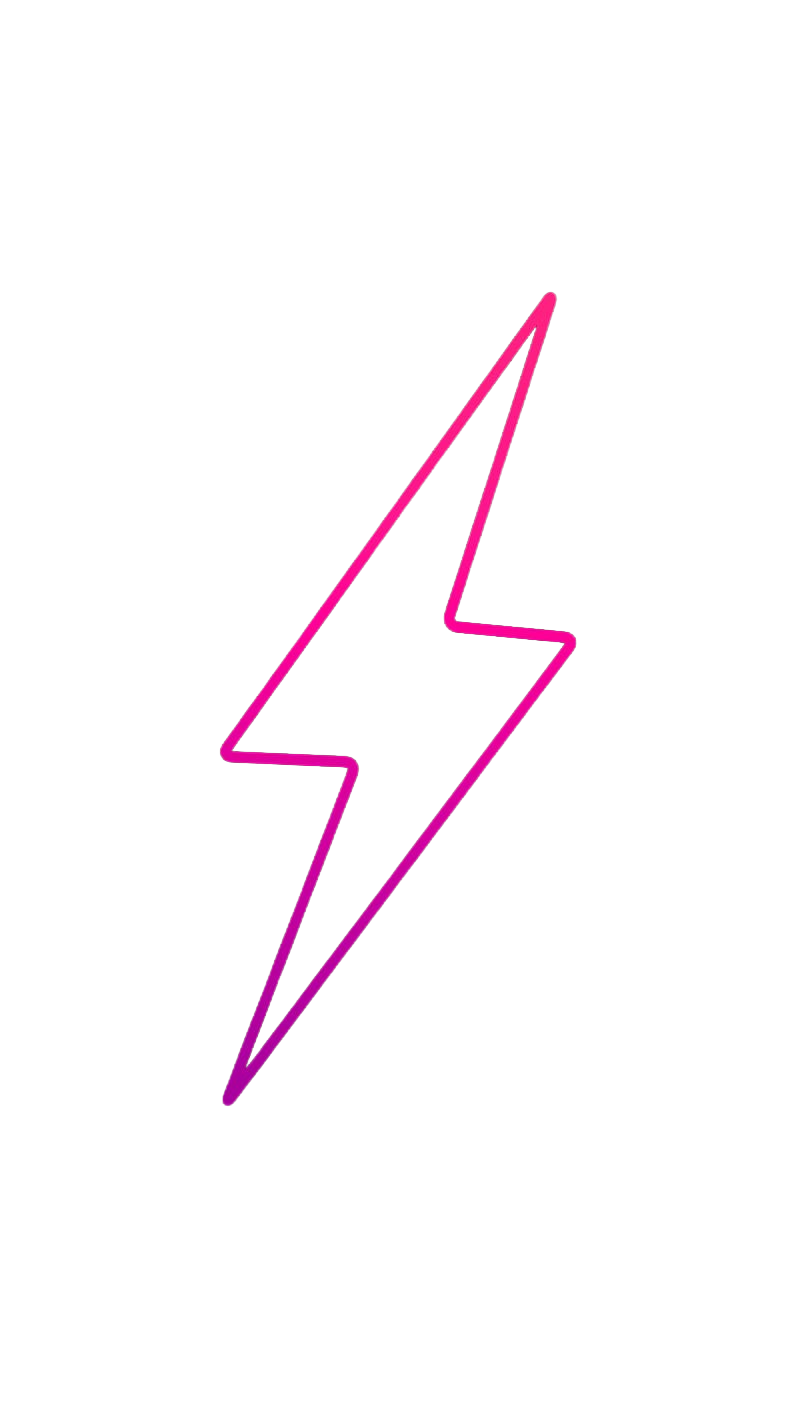
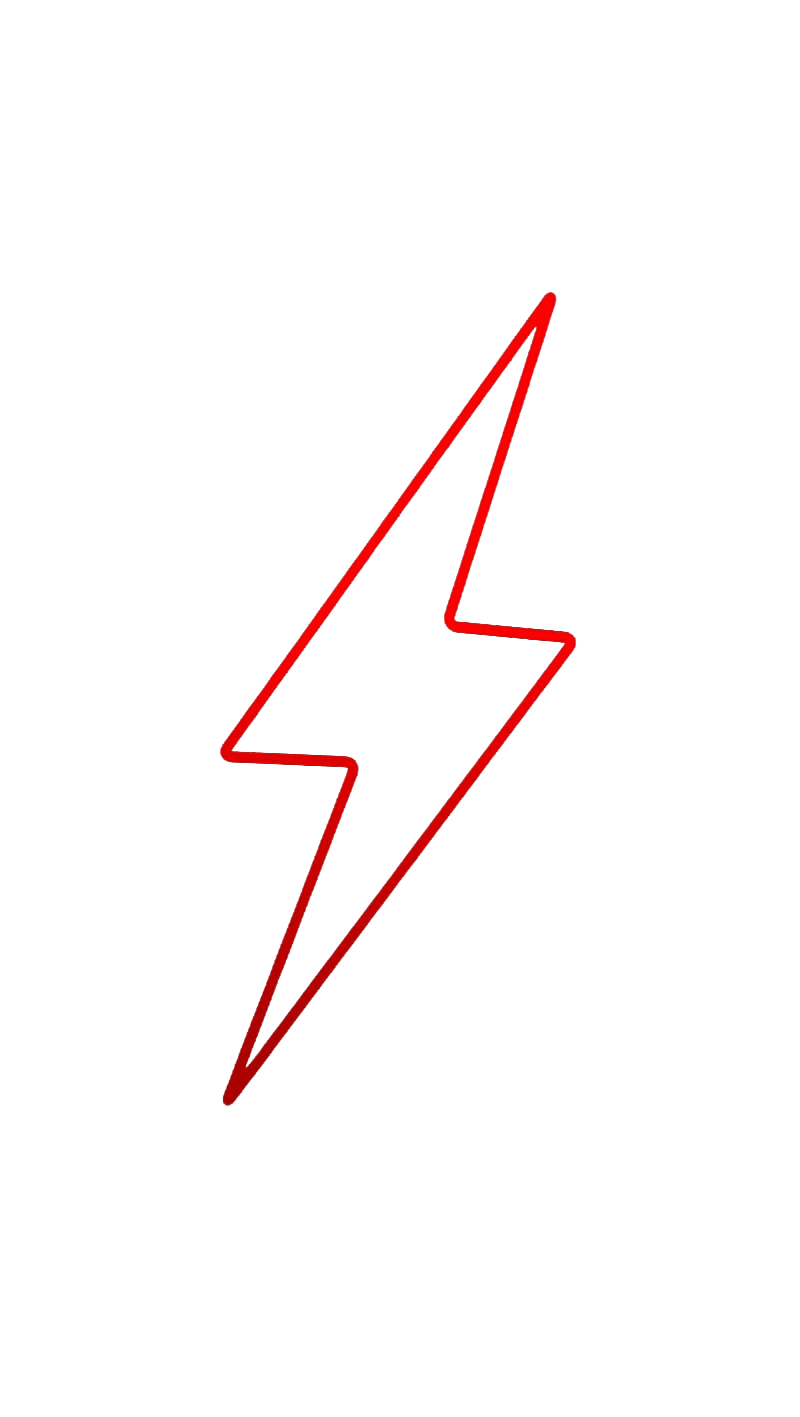
added authentication

diff --git a/src/pages/index.tsx b/src/pages/index.tsx
@@ -6,13 +6,14 @@ import Python from '@assets/python-logo.png';
 import Ffmpeg from '@assets/ffmpeg.png';
 import { RiVideoUploadLine } from 'react-icons/ri';
 import { BsCodeSlash } from 'react-icons/bs';
+import Link from 'next/link';
 
 const IndexPage: NextPage = () => {
   return (
     <div className="w-full p-14 pt-16 relative">
       <Head>
         <title>Home</title>
-        <link rel="icon" href="/favicon.ico" />
+        <link rel="icon" href="/thunder-hero.png" />
       </Head>
       {/* Hero section */}
 
@@ -41,32 +42,36 @@ const IndexPage: NextPage = () => {
           WASM Apps
         </h2>
         <div className="mt-16 flex gap-20 flex-wrap items-center justify-center lg:justify-start">
-          <div className="flex flex-col justify-center items-center hover:bg-gray-700 rounded-xl p-5 cursor-pointer">
-            <div className="relative h-32 w-32">
-              <Image
-                src={Python}
-                layout="fill"
-                className="h-full w-full object-contain"
-              />
+          <Link href="/editor">
+            <div className="flex flex-col justify-center items-center hover:bg-gray-800 rounded-xl p-5 cursor-pointer">
+              <div className="relative h-32 w-32">
+                <Image
+                  src={Python}
+                  layout="fill"
+                  className="h-full w-full object-contain"
+                />
+              </div>
+              <div className="flex items-center gap-4 mt-5">
+                <BsCodeSlash className="text-3xl" />
+                <p>Python Code Editor</p>
+              </div>
             </div>
-            <div className="flex items-center gap-4 mt-5">
-              <BsCodeSlash className="text-3xl" />
-              <p>Python Code Editor</p>
+          </Link>
+          <Link href="/ffmpeg">
+            <div className="flex flex-col justify-center items-center hover:bg-gray-800 rounded-xl p-5 cursor-pointer">
+              <div className="relative h-32 w-32">
+                <Image
+                  src={Ffmpeg}
+                  layout="fill"
+                  className="h-full w-full object-contain"
+                />
+              </div>
+              <div className="flex items-center gap-4 mt-5">
+                <RiVideoUploadLine className="text-3xl" />
+                <p>Codec Formatter</p>
+              </div>
             </div>
-          </div>
-          <div className="flex flex-col justify-center items-center hover:bg-gray-700 rounded-xl p-5 cursor-pointer">
-            <div className="relative h-32 w-32">
-              <Image
-                src={Ffmpeg}
-                layout="fill"
-                className="h-full w-full object-contain"
-              />
-            </div>
-            <div className="flex items-center gap-4 mt-5">
-              <RiVideoUploadLine className="text-3xl" />
-              <p>Codec Formatter</p>
-            </div>
-          </div>
+          </Link>
         </div>
       </section>
     </div>

diff --git a/src/components/Header/Header.tsx b/src/components/Header/Header.tsx
@@ -1,7 +1,18 @@
 import Link from 'next/link';
-import React from 'react';
+import { useSession, signIn, signOut } from 'next-auth/react';
+import Image from 'next/image';
 
 const Header = () => {
+  const { data: session } = useSession();
+
+  const handleLogin = () => {
+    signIn();
+  };
+
+  const handleLogout = () => {
+    signOut();
+  };
+
   return (
     <header className="w-full h-10 bg-header flex justify-between items-center py-8 px-4 md:px-10 lg:px-14 fixed top-0 left-0 z-[99999]">
       <Link href="/">
@@ -9,6 +20,25 @@ const Header = () => {
           AWASM
         </div>
       </Link>
+      {!session ? (
+        <button className="bg-button" onClick={handleLogin}>
+          Login
+        </button>
+      ) : (
+        <div className="flex items-center">
+          <div className="relative h-10 w-10 rounded-full overflow-hidden">
+            <Image
+              src={session.user?.image!}
+              layout="fill"
+              className="h-full w-full object-contain"
+            />
+          </div>
+          <p className="ml-2 text-sm">{session.user?.name}</p>
+          <button className="bg-button ml-4" onClick={handleLogout}>
+            Logout
+          </button>
+        </div>
+      )}
     </header>
   );
 };

diff --git a/src/pages/_app.tsx b/src/pages/_app.tsx
@@ -1,5 +1,6 @@
 import '../styles/globals.css';
 import { QueryClient, QueryClientProvider } from '@tanstack/react-query';
+import { SessionProvider } from 'next-auth/react';
 import { ReactQueryDevtools } from '@tanstack/react-query-devtools';
 import type { AppProps } from 'next/app';
 import { Provider } from 'react-redux';
@@ -10,16 +11,21 @@ import Layout from '@components/Layout';
 
 const queryClient = new QueryClient();
 
-export default function MyApp({ Component, pageProps }: AppProps) {
+export default function MyApp({
+  Component,
+  pageProps: { session, ...pageProps }
+}: AppProps) {
   return (
     <Provider store={store}>
       <QueryClientProvider client={queryClient}>
         <>
           {/* <PageLoading /> */}
           <NextProgress delay={300} options={{ showSpinner: false }} />
-          <Layout>
-            <Component {...pageProps} />
-          </Layout>
+          <SessionProvider session={session}>
+            <Layout>
+              <Component {...pageProps} />
+            </Layout>
+          </SessionProvider>
         </>
         <ReactQueryDevtools initialIsOpen={false} position="bottom-right" />
       </QueryClientProvider>

diff --git a/src/pages/editor.tsx b/src/pages/editor.tsx
@@ -1,0 +1,20 @@
+import { NextPage } from 'next';
+import { useSession } from 'next-auth/react';
+import Head from 'next/head';
+
+const Editor: NextPage = () => {
+  useSession({
+    required: true
+  });
+
+  return (
+    <div className="w-full min-h-screen p-14 pt-16">
+      <Head>
+        <title>Editor</title>
+        <link rel="icon" href="/thunder-hero.png" />
+      </Head>
+    </div>
+  );
+};
+
+export default Editor;

diff --git a/src/pages/ffmpeg.tsx b/src/pages/ffmpeg.tsx
@@ -1,0 +1,20 @@
+import { NextPage } from 'next';
+import { useSession } from 'next-auth/react';
+import Head from 'next/head';
+
+const Ffmpeg: NextPage = () => {
+  useSession({
+    required: true
+  });
+
+  return (
+    <div className="w-full min-h-screen p-14 pt-16">
+      <Head>
+        <title>Ffmpeg</title>
+        <link rel="icon" href="/thunder-hero.png" />
+      </Head>
+    </div>
+  );
+};
+
+export default Ffmpeg;

diff --git a/src/pages/api/auth/[...nextauth].ts b/src/pages/api/auth/[...nextauth].ts
@@ -1,0 +1,15 @@
+import NextAuth from 'next-auth';
+import GithubProvider from 'next-auth/providers/github';
+
+export const authOptions = {
+  // Configure one or more authentication providers
+  providers: [
+    GithubProvider({
+      clientId: process.env.GITHUB_ID!,
+      clientSecret: process.env.GITHUB_SECRET!
+    })
+  ],
+  secret: process.env.NEXTAUTH_SECRET
+};
+
+export default NextAuth(authOptions);

diff --git a/src/styles/globals.css b/src/styles/globals.css
@@ -28,11 +28,18 @@
 
 @layer components {
   .bg-color {
-    @apply bg-[#0e1117];
+    @apply bg-black;
   }
 
   .bg-header {
-    @apply bg-[#161b22] shadow-xl;
+    @apply bg-black shadow-xl;
+  }
+
+  .bg-button {
+    @apply bg-gradient-to-r from-red-500 to-orange-500 px-4 py-1 rounded-md;
+  }
+  .bg-button:hover {
+    @apply bg-gradient-to-r from-red-700 to-orange-700;
   }
 
   .text-gradient-hero {

diff --git a/.eslintrc.js b/.eslintrc.js
@@ -46,6 +46,7 @@ module.exports = {
     '@next/next/no-img-element': 'off',
     'security/detect-object-injection': 'off',
     '@typescript-eslint/ban-types': 'off',
-    '@typescript-eslint/no-var-requires': 'off'
+    '@typescript-eslint/no-var-requires': 'off',
+    '@typescript-eslint/no-non-null-asserted-optional-chain': 'off'
   }
 };

diff --git a/next.config.js b/next.config.js
@@ -1,4 +1,7 @@
 /** @type {import('next').NextConfig} */
 module.exports = {
-  reactStrictMode: true
+  reactStrictMode: true,
+  images: {
+    domains: ['avatars.githubusercontent.com']
+  }
 };
